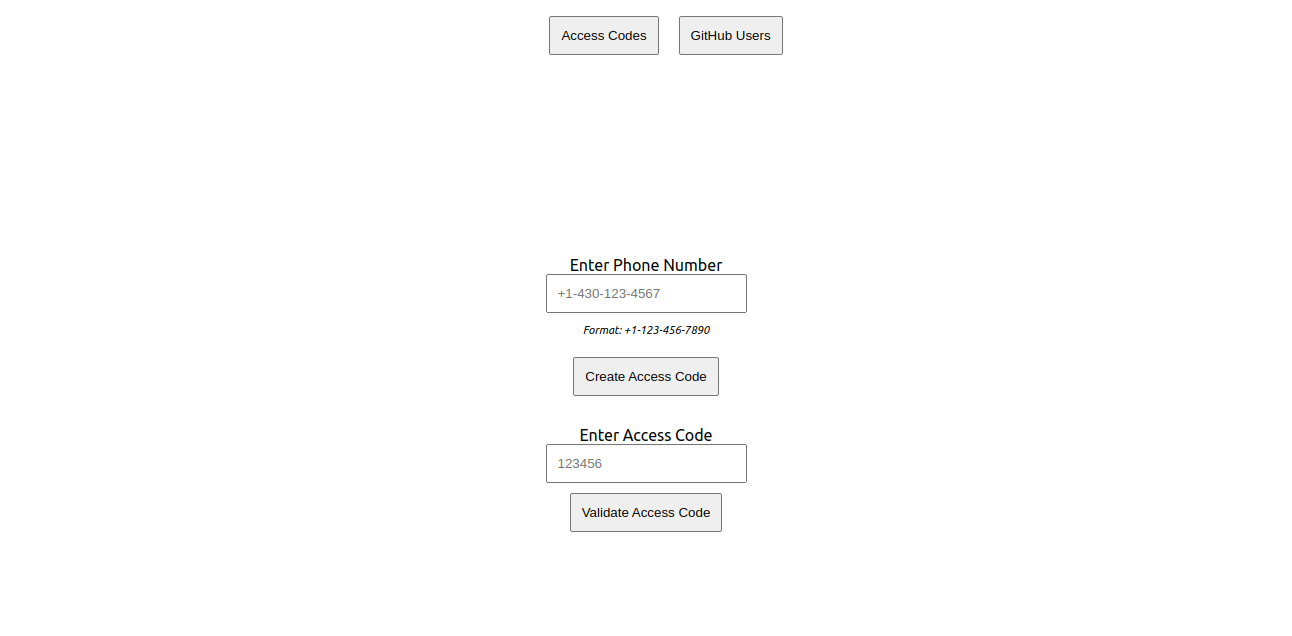
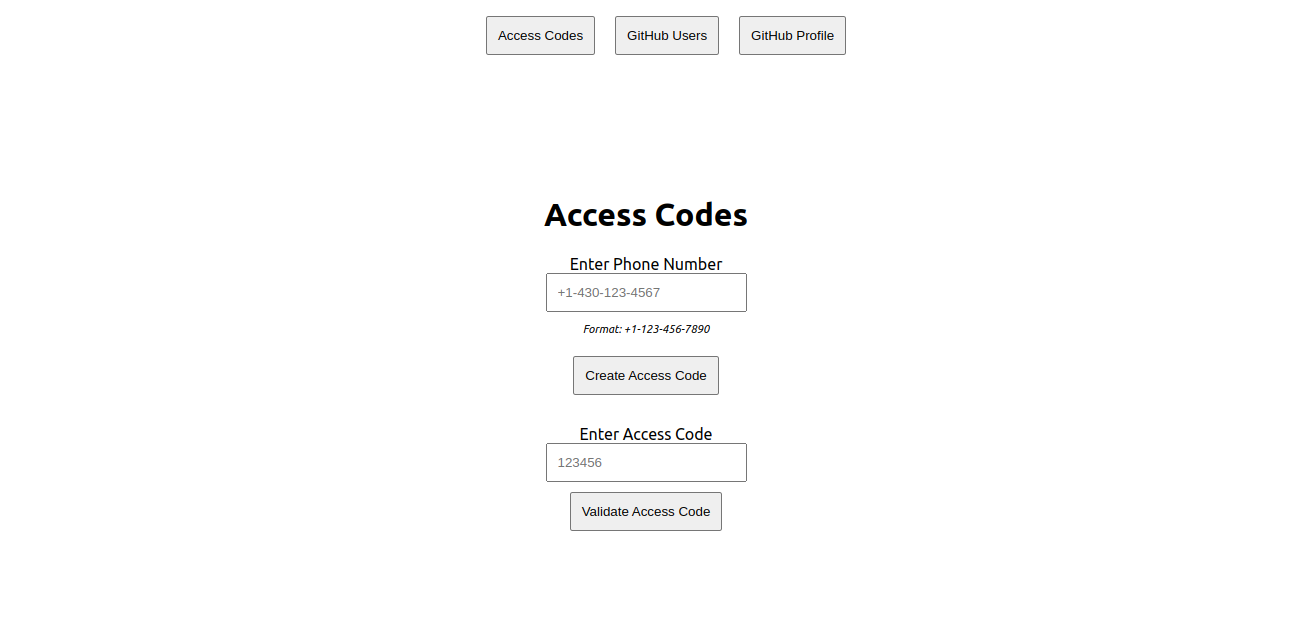
Update readme

diff --git a/README.md b/README.md
@@ -81,6 +81,8 @@
 <div align="center">
   <img src="accessCodes.png" alt="screenshot" width="100%"  height="auto" />
    <img src="githubUsers.png" alt="screenshot" width="100%"  height="auto" />
+      <img src="githubProfiles.png" alt="screenshot" width="100%"  height="auto" />
+
 </div>
 
 <p align="right">(<a href="#readme-top">back to top</a>)</p>
@@ -146,11 +148,14 @@ N/B: The back-end runs on port 4000 whereas the front-end often runs on port 300
 
 #### Access Codes
 - Ensure that the back-end is running at all times. This message will appear on the terminal if the back-end is running: `Example app listening at http://localhost:4000`. Note that any errors on the front-end may cause the back-end to stop running. If this happens, you will need to restart the back-end. Use the following commands: ```Ctrl + C``` to stop the back-end and ```npm run start``` to start the back-end again.
-- On the front-end, there is a navigation bar (see the preview above) that contains links to the two pages. The Access Codes is the first page. On this page, you will enter a phone number(use +254726993667 as this number is verified by Twilio and, therefore, will not throw any errors. I have console logged the data, which also includes the auto-generated access code). Once you click the "Create Access Code" button, check the console for the pertinent data. Insert the access code in the second input field and click the "Validate Access Code" button. You can test the API by entering different access codes.
+- On the front-end, there is a navigation bar (see the preview above) that contains links to the three pages. The Access Codes is the first page. On this page, you will enter a phone number(use +254726993667 as this number is verified by Twilio and, therefore, will not throw any errors. I have console logged the data, which also includes the auto-generated access code). Once you click the "Create Access Code" button, check the console for the pertinent data. Insert the access code in the second input field and click the "Validate Access Code" button. You can test the API by entering different access codes.
 
 #### GitHub Users
 - On the front-end, click on the GitHub Users link on the navigation bar. You will see input fields: username, Page, and Per Page. You can filter the list by name, page, and per_page parameters. The default values are: name = "", page = 1, and per_page = 10. You can change these values and click the "Search" button to see the results. 
 N/B: Ensure that the back-end is still running, particularly if you run into any errors.
+
+#### GitHub Profiles
+- On the front-end, click on the GitHub Profile link on the navigation bar. You will see an input field for id numbers. Enter any number and click on the search profile icon to see which user owns that particular GitHub profile. The results appear in a table below the input section.
 
 <p align="right">(<a href="#readme-top">back to top</a>)</p>
 
